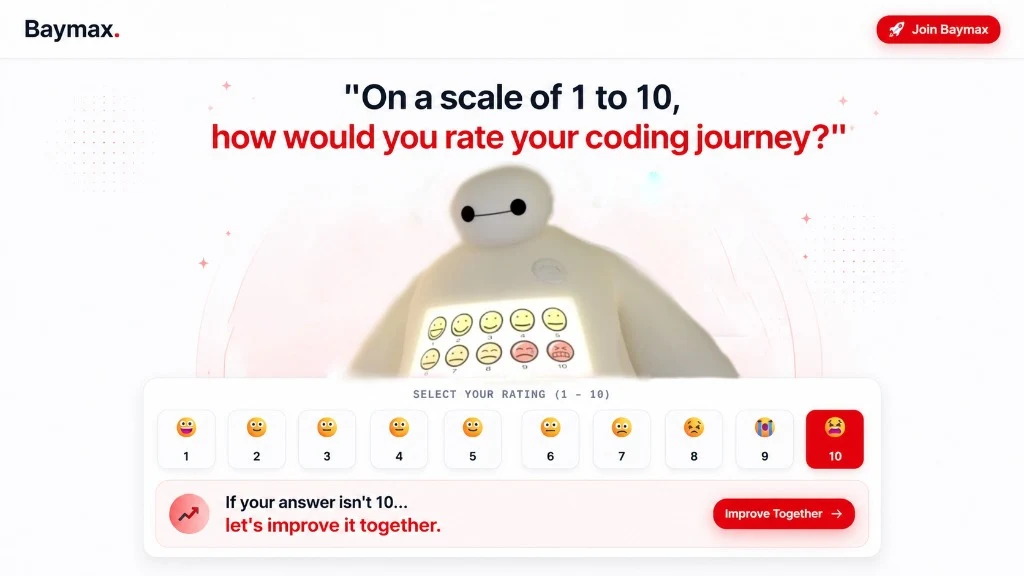
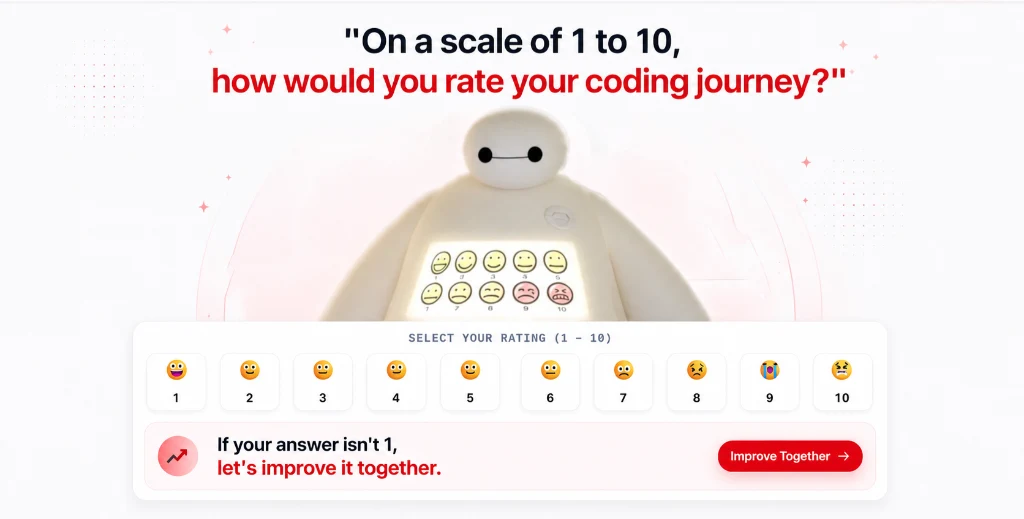
Update section 2 image with new design and single Improve Together button

diff --git a/index.html b/index.html
@@ -69,22 +69,14 @@
             <div class="image-container">
                 <picture>
                     <source srcset="images/section2.webp" type="image/webp">
-                    <img src="images/section2.jpg" alt="On a scale of 1 to 10, how would you rate your coding journey? If your answer isn't 10... let's improve it together." class="responsive-img" loading="lazy" width="1024" height="576">
+                    <img src="images/section2.png" alt="On a scale of 1 to 10, how would you rate your coding journey? If your answer isn't 1, let's improve it together." class="responsive-img" loading="lazy" width="1024" height="519">
                 </picture>
                 
-                <!-- Clickable Hotspots -->
-                <!-- Top Right: Join Baymax Button -->
-                <a href="https://forms.gle/pgsRtchLe53S1yRf7" class="hotspot hotspot-top-right-red js-google-form-link" 
-                   aria-label="Join Baymax on Google Form" 
-                   style="top: 1.5%; left: 82%; width: 17%; height: 8%; border-radius: 30px;"
-                   target="_blank" rel="noopener noreferrer">
-                   <span class="hotspot-tooltip">Join Baymax</span>
-                </a>
-
+                <!-- Clickable Hotspot -->
                 <!-- Bottom Right: Improve Together Button -->
                 <a href="https://forms.gle/pgsRtchLe53S1yRf7" class="hotspot hotspot-bottom-right-red js-google-form-link" 
                    aria-label="Improve Together on Google Form" 
-                   style="top: 84%; left: 67%; width: 20%; height: 9%; border-radius: 30px;"
+                   style="top: 83%; left: 67%; width: 21%; height: 11%; border-radius: 30px;"
                    target="_blank" rel="noopener noreferrer">
                    <span class="hotspot-tooltip">Improve Together</span>
                 </a>
